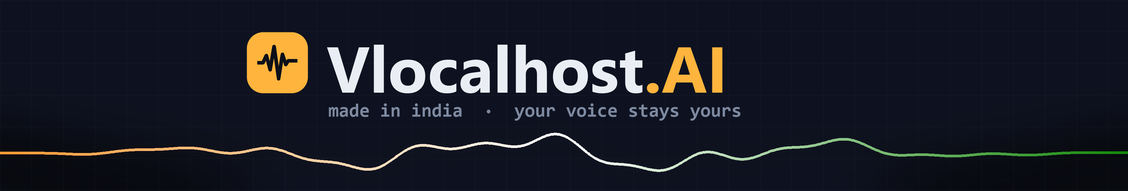
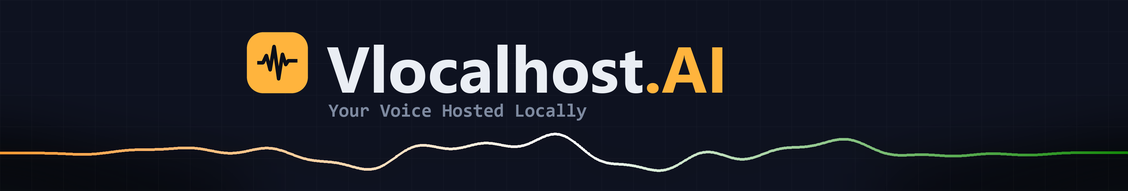
Adopt "Your Voice Hosted Locally" as the tagline
It does three jobs at once: explains the name — everything happens on localhost
— states the mechanism, and is short enough to sit legibly on a 191px LinkedIn
cover. It replaces both the descriptive line and the separate launch line,
since the Independence Day nod is already carried by the tricolour trace and a
second line only said twice what the picture said once.

The site URL moves from bottom-right to under the tagline. On the right it
landed on the crest of the wave and had to be read through it.

Changed region(s): [[0.2793, 0.5236, 0.6826, 0.6283]]

diff --git a/brand/make_social.py b/brand/make_social.py
@@ -208,8 +208,15 @@ def banner(size, launch=False, tagline=None, safe_left=0, compact=False):
 
     if tagline:
         f_tag = font(F_MONO, int(h * (0.10 if compact else 0.085)))
-        d.text((tx + int(h * 0.01), top + m + int(h * 0.04)), tagline,
-               font=f_tag, fill=MUTED)
+        ty_tag = top + m + int(h * 0.04)
+        d.text((tx + int(h * 0.01), ty_tag), tagline, font=f_tag, fill=MUTED)
+        if not compact:
+            # Under the tagline, not bottom-right: on the right it landed on
+            # the crest of the wave and had to be read through it.
+            f_url = font(F_MONO, int(h * 0.05))
+            d.text((tx + int(h * 0.012), ty_tag + int(f_tag.size * 1.45)),
+                   "antigravitysoham-eng.github.io/vlocalhost-ai",
+                   font=f_url, fill=(90, 100, 120))
 
     # ---- claims, bottom-right, clear of the avatar cut-out -----------------
     if not compact:
@@ -219,10 +226,7 @@ def banner(size, launch=False, tagline=None, safe_left=0, compact=False):
         total = sum(d.textlength(t, font=f_chip) + pad * 2 + gap for t in items) - gap
         chips(d, int(w - total - w * 0.04), int(h * 0.60), items, f_chip,
               pad=pad, gap=gap)
-        f_url = font(F_MONO, int(h * 0.05))
-        url = "antigravitysoham-eng.github.io/vlocalhost-ai"
-        d.text((w - d.textlength(url, font=f_url) - w * 0.04, int(h * 0.79)),
-               url, font=f_url, fill=MUTED)
+
 
     return img.resize(size, Image.LANCZOS).convert("RGB")
 
@@ -279,15 +283,18 @@ def square_card(size, launch=True):
         d.text(((w - d.textlength(text, font=f)) / 2, y), text, font=f, fill=fill)
 
     centre("Vlocalhost.AI", f_name, int(h * 0.335), PAPER)
-    centre("Meeting notes that never", f_line, int(h * 0.60), PAPER)
-    centre("leave your machine.", f_line, int(h * 0.665), AMBER)
+    centre("Your Voice,", f_line, int(h * 0.60), PAPER)
+    centre("Hosted Locally.", f_line, int(h * 0.665), AMBER)
     centre("MADE IN INDIA  ·  ON-DEVICE  ·  FREE", f_tag, int(h * 0.79), CYAN)
     centre("link in bio  ·  windows today", f_tag, int(h * 0.855), MUTED)
     return img.resize((size, size), Image.LANCZOS).convert("RGB")
 
 
-TAG = "meeting notes that never leave your machine"
-TAG_LAUNCH = "made in india  ·  your voice stays yours"
+# One tagline everywhere. It explains the name — everything happens on
+# localhost — states the mechanism, and needs no second line to carry the
+# launch: the tricolour trace already says where it was built.
+TAG = "Your Voice Hosted Locally"
+TAG_LAUNCH = "Your Voice Hosted Locally"
 
 
 def main():

diff --git a/brand/social-copy.md b/brand/social-copy.md
@@ -130,6 +130,14 @@ meeting intelligence, open source
 
 ---
 
+## The tagline
+
+**Your Voice Hosted Locally.**
+
+It carries the name — everything happens on localhost — and states the
+mechanism in four words. Used on every banner, both variants; the Independence
+Day nod is carried by the tricolour trace rather than by a second line.
+
 ## The one-liners, for reuse
 
 - Meeting notes that never leave your machine.
